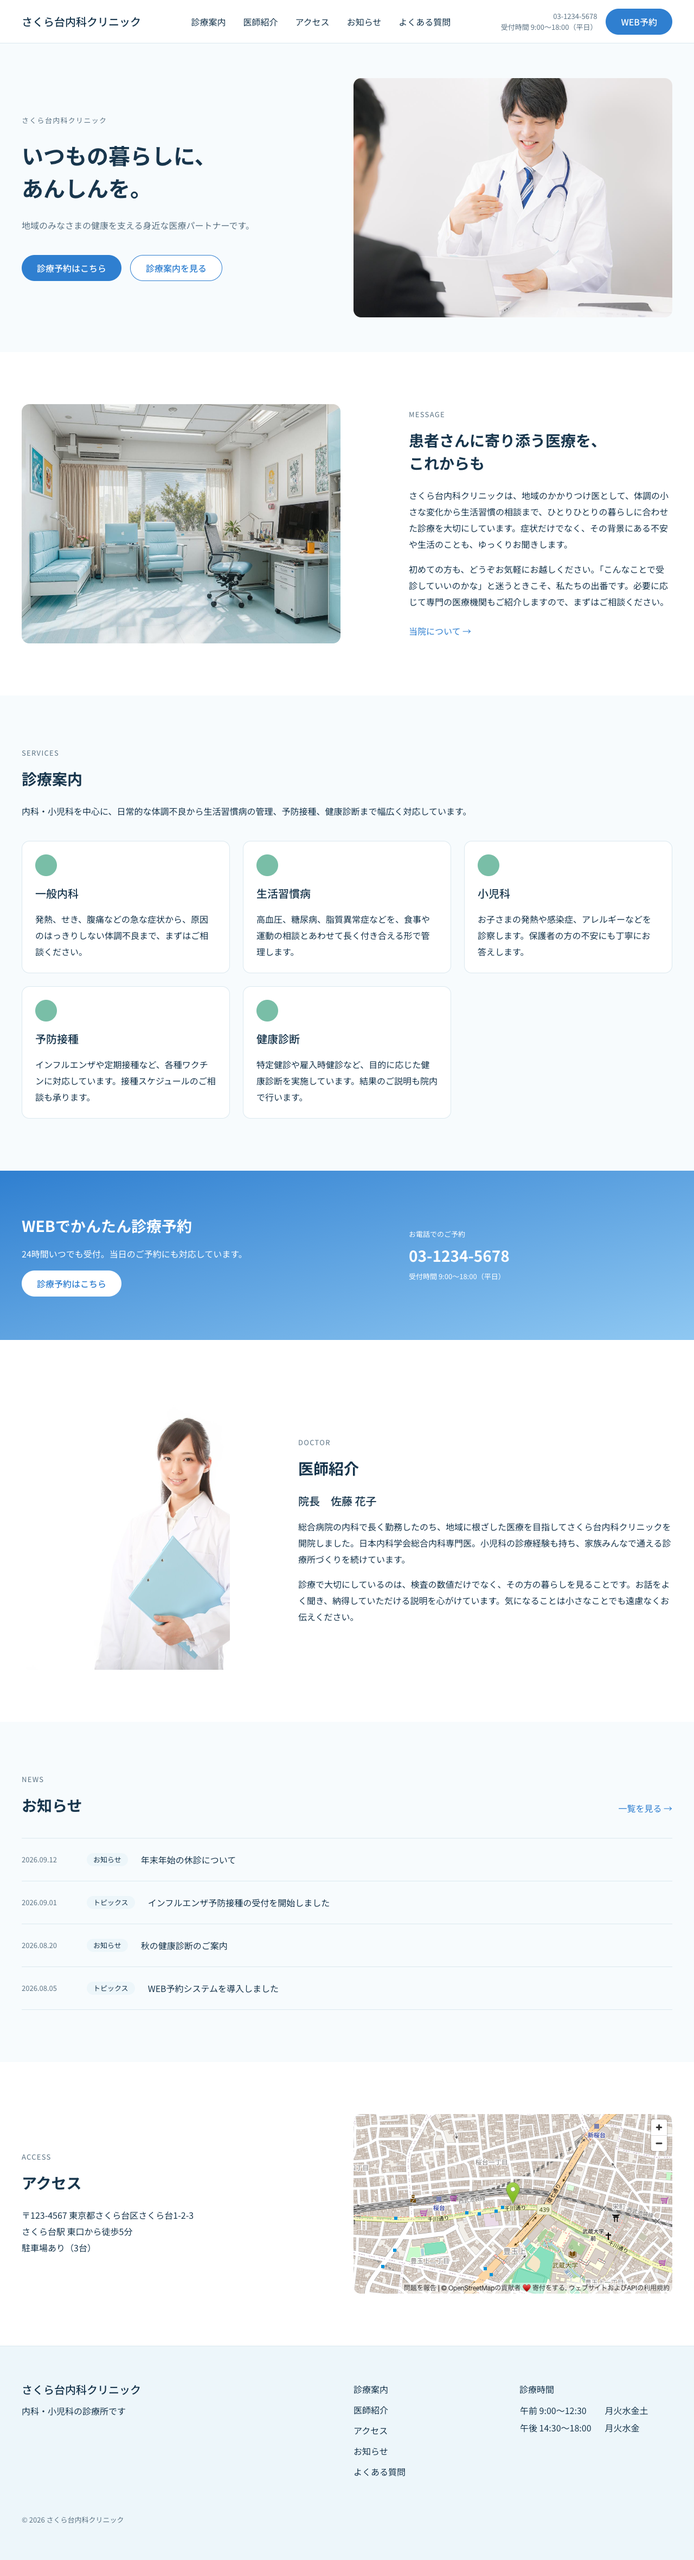
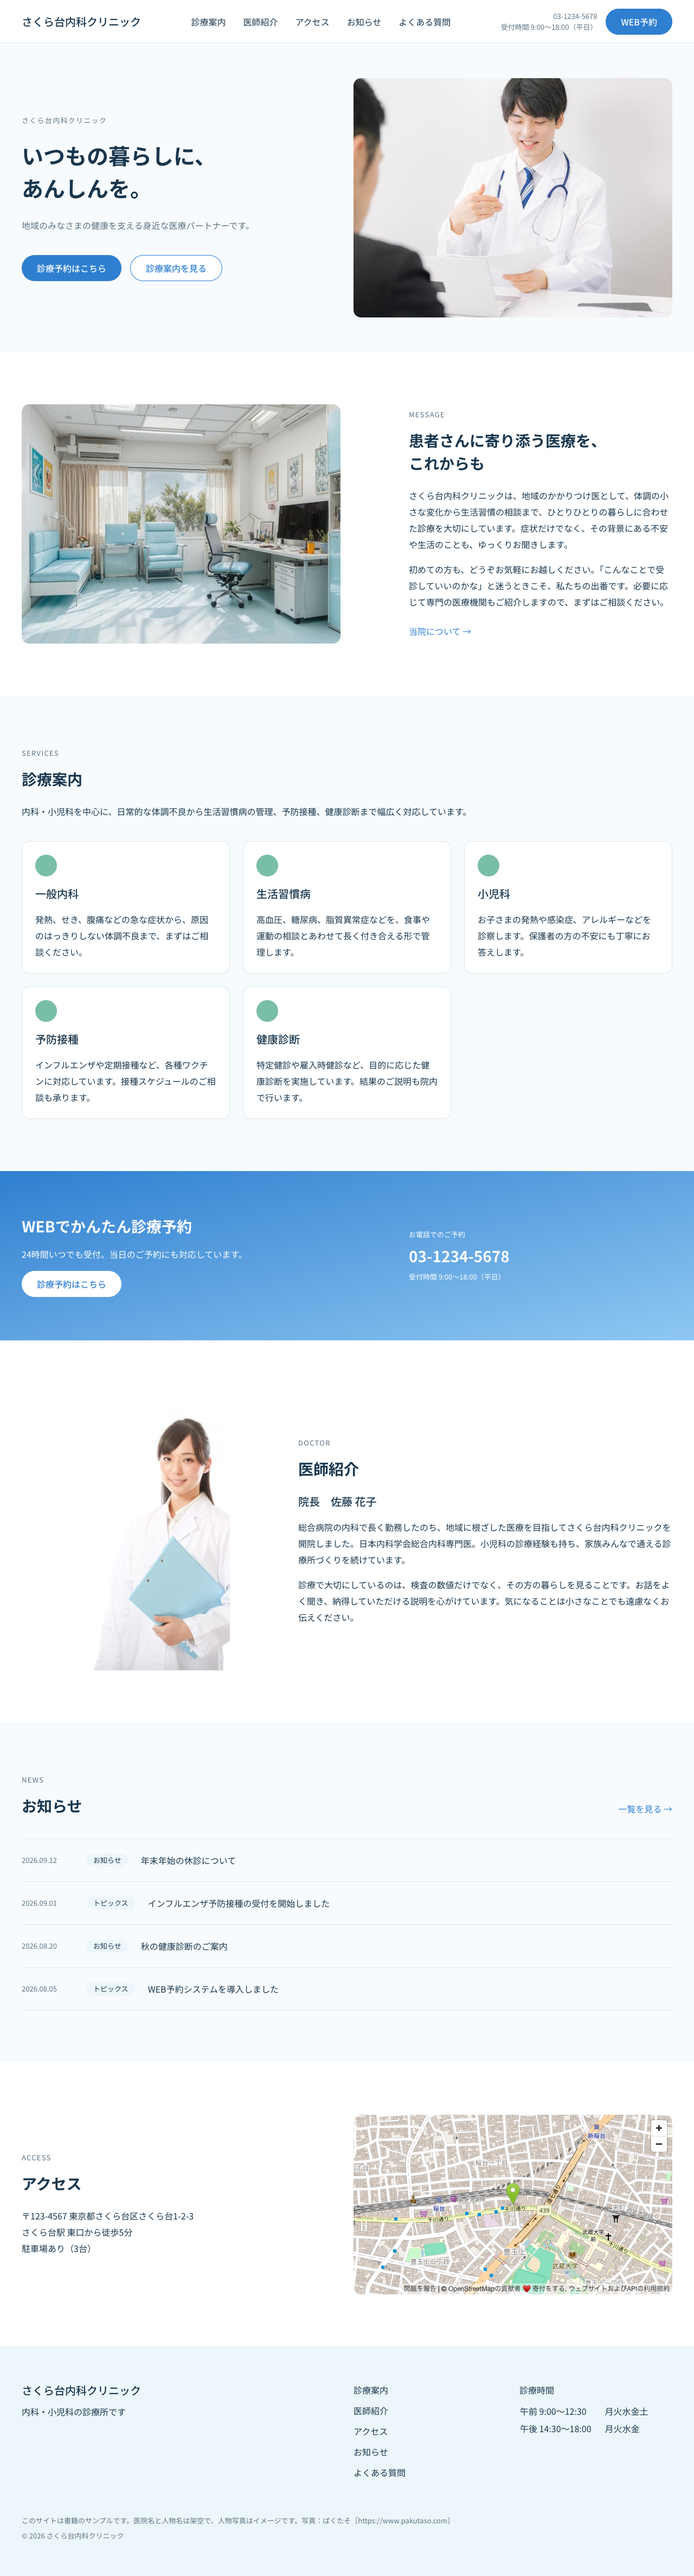
fix: 第4章の写真をぱくたその直接参照からSサイズの同梱に改め、架空の注記とクレジットを足す (kgsi/web-design-with-cc#13)

diff --git a/ch04-clinic-site/moodboard/clinic-moodboard.html b/ch04-clinic-site/moodboard/clinic-moodboard.html
@@ -104,7 +104,7 @@ h1{font-size:27px;line-height:1.38;margin:12px 0 14px}
 
     <section class="card hero">
       <span class="pakutaso-badge">PAKUTASO / PHOTO</span>
-      <img src="https://www.pakutaso.com/shared/img/thumb/tomaturiHFKE2155_TP_V.jpg" alt="患者に説明する若い男性医師">
+      <img src="../images/hero.jpg" alt="患者に説明する若い男性医師">
       <div class="overlay"></div>
       <div class="hero-copy">
         <div class="big">いつもの暮らしに、<br>あんしんを。</div>
@@ -116,7 +116,7 @@ h1{font-size:27px;line-height:1.38;margin:12px 0 14px}
 
     <section class="card team photo">
       <span class="pakutaso-badge">PAKUTASO / AI</span>
-      <img src="https://www.pakutaso.com/shared/img/thumb/reai_2567A011_TP_V.jpg" alt="自然光の入る診察室と待合スペース">
+      <img src="../images/message.jpg" alt="自然光の入る診察室と待合スペース">
       <div class="team-copy">話しやすく、<br>相談しやすい医療へ。</div>
       <a class="credit" href="https://www.pakutaso.com/20250553147post-54448.html" target="_blank">Image: ぱくたそ（AI素材） ↗</a>
     </section>
@@ -147,7 +147,7 @@ h1{font-size:27px;line-height:1.38;margin:12px 0 14px}
 
     <section class="card doctor">
       <span class="pakutaso-badge">PAKUTASO / PHOTO</span>
-      <img src="https://www.pakutaso.com/shared/img/thumb/PASONAZ160306150I9A1901_TP_V.jpg" alt="女性医師">
+      <img src="../images/doctor.jpg" alt="女性医師">
       <div class="doctor-label">医師紹介　佐藤 花子</div>
       <a class="credit" href="https://www.pakutaso.com/20160732188post-8325.html" target="_blank">Photo: すしぱく / ぱくたそ ↗</a>
     </section>
@@ -162,7 +162,7 @@ h1{font-size:27px;line-height:1.38;margin:12px 0 14px}
 
     <section class="card support">
       <span class="pakutaso-badge">PAKUTASO / PHOTO</span>
-      <img src="https://www.pakutaso.com/shared/img/thumb/kagaminHFKE8553_TP_V.jpg" alt="笑顔の男女医師">
+      <img src="../images/team.jpg" alt="笑顔の男女医師">
       <div class="copy">チームで支える、<br>身近な医療。</div>
       <a class="credit" href="https://www.pakutaso.com/20240347088post-50918.html" target="_blank">Photo: すしぱく / ぱくたそ ↗</a>
     </section>
@@ -206,7 +206,7 @@ h1{font-size:27px;line-height:1.38;margin:12px 0 14px}
     <span>Japanese model photography: PAKUTASO</span>
   </div>
   <div class="note">
-    ※ 写真はぱくたそ素材を参照（院内カットはAI素材）。利用時は各素材ページの最新の利用規約・モデルリリース等を確認してください。
+    ※ 写真はぱくたその素材（院内カットはAI素材）。医院名と医師名は架空で、人物写真はイメージです。利用時は各素材ページの最新の利用規約・モデルリリース等を確認してください。
   </div>
 </div>
 </body>

diff --git a/ch04-clinic-site/index.html b/ch04-clinic-site/index.html
@@ -121,7 +121,7 @@
           </div>
         </div>
         <div class="col-span-6">
-          <img src="https://www.pakutaso.com/shared/img/thumb/tomaturiHFKE2155_TP_V.jpg" alt="患者に説明する白衣の男性医師" class="aspect-[4/3] w-full rounded-md bg-pale object-cover">
+          <img src="images/hero.jpg" alt="患者に説明する白衣の男性医師" class="aspect-[4/3] w-full rounded-md bg-pale object-cover">
         </div>
       </div>
     </section>
@@ -130,7 +130,7 @@
     <section class="bg-white py-section" aria-labelledby="message-heading">
       <div class="mx-auto grid max-w-[1200px] grid-cols-12 items-center gap-x-6">
         <div class="col-span-6">
-          <img src="https://www.pakutaso.com/shared/img/thumb/reai_2567A011_TP_V.jpg" alt="自然光の入る診察室と待合スペース" class="aspect-[4/3] w-full rounded-md bg-pale object-cover" loading="lazy">
+          <img src="images/message.jpg" alt="自然光の入る診察室と待合スペース" class="aspect-[4/3] w-full rounded-md bg-pale object-cover" loading="lazy">
         </div>
         <div class="col-span-5 col-start-8">
           <p class="text-caption tracking-widest text-muted">MESSAGE</p>
@@ -198,7 +198,7 @@
     <section id="doctor" class="bg-white py-section" aria-labelledby="doctor-heading">
       <div class="mx-auto grid max-w-[1200px] grid-cols-12 items-center gap-x-6">
         <div class="col-span-4">
-          <img src="https://www.pakutaso.com/shared/img/thumb/PASONAZ160306150I9A1901_TP_V.jpg" alt="カルテを持つ白衣姿の女性医師" class="aspect-[3/4] w-full rounded-md bg-pale object-cover" loading="lazy">
+          <img src="images/doctor.jpg" alt="カルテを持つ白衣姿の女性医師" class="aspect-[3/4] w-full rounded-md bg-pale object-cover" loading="lazy">
         </div>
         <div class="col-span-7 col-start-6">
           <p class="text-caption tracking-widest text-muted">DOCTOR</p>
@@ -299,7 +299,8 @@
           </table>
         </div>
       </div>
-      <p class="mt-xl text-caption text-muted">© 2026 さくら台内科クリニック</p>
+      <p class="mt-xl text-caption text-muted">このサイトは書籍のサンプルです。医院名と人物名は架空で、人物写真はイメージです。写真：ぱくたそ［https://www.pakutaso.com］</p>
+      <p class="mt-xs text-caption text-muted">© 2026 さくら台内科クリニック</p>
     </div>
   </footer>
 

diff --git a/ch04-clinic-site/moodboard/photo_links.md b/ch04-clinic-site/moodboard/photo_links.md
@@ -1,14 +1,14 @@
 # 写真リンク一覧 — 医療系サイト ムードボード（ぱくたそ版）
 
 このファイルは、ムードボードで参照している写真の出典記録です。
-写真データ自体は同梱していません。利用時は各素材ページから利用規約を確認のうえ、公式サイトから取得してください。
+写真データは、ぱくたその利用規約で再配布が認められているSサイズを `../images/` に同梱しています。使う前に `../images/README.md` を読み、ぱくたその利用規約に同意してください。
 
-| 用途 | 素材名 | ID | モデル | 撮影 | 素材ページ | Mサイズ画像URL |
+| 用途 | 素材名 | ID | モデル | 撮影 | 素材ページ | 同梱ファイル |
 |---|---|---:|---|---|---|---|
-| FV / メインビジュアル | 患者に医療アドバイスを提供する若い男性医師の笑顔 | 91040 | たくみ | すしぱく | https://www.pakutaso.com/20240500144post-51322.html | https://www.pakutaso.com/shared/img/thumb/tomaturiHFKE2155_TP_V.jpg |
-| サブビジュアル / 院内の様子 | 自然光が差し込む明るい診療所の診察室と待合スペース | 94334 | なし（AI素材） | ぱくたそ運営事務局 | https://www.pakutaso.com/20250553147post-54448.html | https://www.pakutaso.com/shared/img/thumb/reai_2567A011_TP_V.jpg |
-| 医師紹介 | カルテを持ち笑顔の白衣姿の女性医者 | 15173 | さとうゆい | すしぱく | https://www.pakutaso.com/20160732188post-8325.html | https://www.pakutaso.com/shared/img/thumb/PASONAZ160306150I9A1901_TP_V.jpg |
-| チーム医療 / サポート | 「一緒に頑張っていきましょう」と励ます医局の男性と女性 | 90548 | SAKI / ガーミー | すしぱく | https://www.pakutaso.com/20240347088post-50918.html | https://www.pakutaso.com/shared/img/thumb/kagaminHFKE8553_TP_V.jpg |
+| FV / メインビジュアル | 患者に医療アドバイスを提供する若い男性医師の笑顔 | 91040 | たくみ | すしぱく | https://www.pakutaso.com/20240500144post-51322.html | `../images/hero.jpg` |
+| サブビジュアル / 院内の様子 | 自然光が差し込む明るい診療所の診察室と待合スペース | 94334 | なし（AI素材） | ぱくたそ運営事務局 | https://www.pakutaso.com/20250553147post-54448.html | `../images/message.jpg` |
+| 医師紹介 | カルテを持ち笑顔の白衣姿の女性医者 | 15173 | さとうゆい | すしぱく | https://www.pakutaso.com/20160732188post-8325.html | `../images/doctor.jpg` |
+| チーム医療 / サポート | 「一緒に頑張っていきましょう」と励ます医局の男性と女性 | 90548 | SAKI / ガーミー | すしぱく | https://www.pakutaso.com/20240347088post-50918.html | `../images/team.jpg` |
 
 ## 関連リンク
 
@@ -18,7 +18,7 @@
 ## メモ
 
 - このムードボードはデザイン検討用のサンプルです。
-- HTML内の医院名・医師名・電話番号・診療情報はサンプル表現です。
+- HTML内の医院名・医師名・電話番号・診療情報はサンプル表現です。医院名と人物名は架空で、人物写真はイメージです。
 - 人物素材を実案件に使う場合は、公式素材ページおよび最新の利用規約を再確認してください。
 - ぱくたその素材はCC0ではありません。
 - サブビジュアルは、ぱくたそオリジナルの写真素材をもとにAI画像生成ツールで作成されたAI素材です。モデルはいないため、モデル欄は「なし（AI素材）」、撮影欄は素材ページの著作者表記に従い「ぱくたそ運営事務局」と記しています。

diff --git a/ch04-clinic-site/images/README.md b/ch04-clinic-site/images/README.md
@@ -1,0 +1,24 @@
+# 写真について
+
+このフォルダの写真は、フリー素材サイト [ぱくたそ](https://www.pakutaso.com/) の素材です。ぱくたその利用規約で再配布が認められているSサイズ（長辺800px）の画像を同梱しています。
+
+## 使う前に
+
+この写真を使う前に、ぱくたその [利用規約](https://www.pakutaso.com/userpolicy.html) を読み、同意してください。このリポジトリを複製したり改変したりして使う場合も、写真には同じ規約が適用されます。
+
+- 写真だけを取り出して、素材として再配布しないでください。素材が必要な場合は、各素材ページから取得してください
+- ぱくたその素材はCC0ではありません
+- サンプルサイトに登場する医院名と人物名は架空です。人物写真はイメージで、写っているモデルとは関係ありません
+
+## クレジット
+
+写真：フリー素材ぱくたそ［https://www.pakutaso.com］
+
+| ファイル | 素材名 | 撮影 | モデル | 素材ページ |
+|---|---|---|---|---|
+| `hero.jpg` | 患者に医療アドバイスを提供する若い男性医師の笑顔 | Photo by すしぱく | Model by たくみ | https://www.pakutaso.com/20240500144post-51322.html |
+| `message.jpg` | 自然光が差し込む明るい診療所の診察室と待合スペース | ぱくたそ運営事務局（AI素材） | なし | https://www.pakutaso.com/20250553147post-54448.html |
+| `doctor.jpg` | カルテを持ち笑顔の白衣姿の女性医者 | Photo by すしぱく | Model by さとうゆい | https://www.pakutaso.com/20160732188post-8325.html |
+| `team.jpg` | 「一緒に頑張っていきましょう」と励ます医局の男性と女性 | Photo by すしぱく | Model by SAKI / ガーミー | https://www.pakutaso.com/20240347088post-50918.html |
+
+`team.jpg` はムードボードだけで使っています。

diff --git a/README.md b/README.md
@@ -39,5 +39,6 @@ git clone https://github.com/kgsi/webdesign-with-cc-sample.git
 - `ch05-corporate-site/images/` の写真も Unsplash の素材で、撮影者と出典の一覧は同フォルダの `README.md` に記載しています
 - `ch03-lp-site/images/` のイラストと `ch03-lp-site/moodboard/` のムードボードは、著者がAI画像生成で作成したものです
 - `ch03-lp-site/example-result/index.html` のSNSアイコンとメニュー開閉ボタンのアイコンは [Bootstrap Icons](https://icons.getbootstrap.com/) v1.13.1 のSVGを埋め込んだもので、MIT Licenseで提供されています
+- `ch04-clinic-site/images/` の写真は [ぱくたそ](https://www.pakutaso.com/) の素材で、[利用規約](https://www.pakutaso.com/userpolicy.html) に従います。規約で再配布が認められているSサイズを同梱しています。使う前に規約を読み、同意してください。クレジットと素材の一覧は同フォルダの `README.md` に記載しています
 - `ch04-clinic-site/index.html` のアクセスの地図は [OpenStreetMap](https://www.openstreetmap.org/) の埋め込みです。地図データは © OpenStreetMap contributors で、[Open Database License](https://www.openstreetmap.org/copyright) で提供されています
 - `ch02-skill-compare/with-skill/.claude/skills/frontend-design/` は [Anthropic公開のSkill](https://github.com/anthropics/skills) の実物で、Apache License 2.0 で提供されています（ライセンス全文を同フォルダに同梱）

diff --git a/ch04-clinic-site/README.md b/ch04-clinic-site/README.md
@@ -29,4 +29,6 @@ python3 -m http.server 8000
 
 ## 写真について
 
-ムードボードの写真は [ぱくたそ](https://www.pakutaso.com/) の素材で、[利用規約](https://www.pakutaso.com/userpolicy.html) に従います。CC0ではないため、画像ファイルはこのリポジトリに同梱していません。素材ページと撮影者の一覧は `moodboard/photo_links.md` にあります。`index.html` とムードボードは、同ファイルに記したMサイズ画像URLを `<img>` で直接参照しています。表示にはネットワーク接続が必要です。
+`index.html` とムードボードの写真は [ぱくたそ](https://www.pakutaso.com/) の素材で、[利用規約](https://www.pakutaso.com/userpolicy.html) に従います。規約で再配布が認められているSサイズの画像を `images/` に同梱しています。使う前に `images/README.md` を読み、ぱくたその利用規約に同意してください。クレジットは同ファイル、素材の用途の一覧は `moodboard/photo_links.md` にあります。サイトに登場する医院名と人物名は架空で、人物写真はイメージです。
+
+2026年9月の時点では、写真をぱくたその画像URLで直接参照していました。ぱくたその規約が直接リンクを禁じているため、2026年10月に同梱へ改めました。それより前のコミットには、直接参照の形が残っています。

diff --git a/ch04-clinic-site/CLAUDE.md b/ch04-clinic-site/CLAUDE.md
@@ -7,7 +7,7 @@
 - 静的HTML＋Tailwind CSS（CDN版）。JavaScriptは書かない（`tailwind.config` の記述だけ例外）
 - Noto Sans JP を Google Fonts で読み込む
 - PC幅（1280px）だけを対象にする。レスポンシブの分岐（`sm:` `md:` `lg:`）は書かない
-- 写真は同梱しない。写真の位置には `moodboard/photo_links.md` のMサイズ画像URLを `<img>` で直接参照する。地図は OpenStreetMap の `export/embed.html` を `<iframe>` で埋め込む
+- 写真の位置には `images/` に同梱したぱくたその素材を `<img>` で置く（どの写真をどこに使うかは `moodboard/photo_links.md`）。外部の画像URLを直接参照しない。地図は OpenStreetMap の `export/embed.html` を `<iframe>` で埋め込む
 
 ## デザイントークン
 

diff --git a/ch04-clinic-site/docs/log.md b/ch04-clinic-site/docs/log.md
@@ -48,6 +48,8 @@
 - 完了前に CLAUDE.md の「完了前の確認」を実行し、変更したファイルと判断に迷った点を報告する
 ```
 
+このプロンプトは、実行したときの文面のまま残している。2026年10月に写真を `images/` へ同梱する形に改めたので、いま試す場合は写真の行を「写真は images/ にある画像を使う。どの写真をどこに使うかは moodboard/photo_links.md にある」に置き換える。
+
 ### 結果（Claude Codeの報告から）
 
 - 9セクションを構造記述の順に実装。`<style>` に `--color-*` 9色、`--space-*` 6段階、`--radius-*` 3段階を定義し、`tailwind.config` の `theme.colors`、`fontSize`（H1〜Captionの5段階）、`spacing`、`borderRadius` からその変数を参照した

diff --git a/ch04-clinic-site/docs/requirements.md b/ch04-clinic-site/docs/requirements.md
@@ -30,7 +30,7 @@
 ## 技術的な条件
 
 - 静的HTML＋Tailwind CSS（CDN版）。JavaScriptは使わない
-- 写真は `moodboard/photo_links.md` に記した素材を使う。ぱくたその素材はCC0ではないため画像ファイルはこのリポジトリに同梱せず、同ファイルのMサイズ画像URLを `<img>` で直接参照する
+- 写真は `moodboard/photo_links.md` に記した素材を使う。ぱくたその素材はCC0ではなく、直接リンクも禁じられているため、規約で再配布が認められているSサイズの画像を `images/` に同梱して `<img>` で参照する
 - ロゴはテキストのワードマーク
 - PC幅（1280px）で崩れないこと。第4章ではPC幅だけを扱う
 

diff --git a/ch04-clinic-site/docs/wireframe.md b/ch04-clinic-site/docs/wireframe.md
@@ -6,7 +6,7 @@
 
 - 最優先の要素は hero の「診療予約はこちら」ボタン。もっとも視線を集める配置にする
 - 2番目は reserve セクション。ページ中央で青の面を使う唯一の場所にする
-- hero の右側は写真の領域。`moodboard/photo_links.md` のFV素材をURLで直接参照し、装飾やイラストを足さない
+- hero の右側は写真の領域。`moodboard/photo_links.md` のFV素材（`images/hero.jpg`）を置き、装飾やイラストを足さない
 - services のカードには背景色を付けず、白地に line 色の罫線だけで区切る
 - message と doctor の写真の周囲は広く空ける。テキストを詰めない
 
